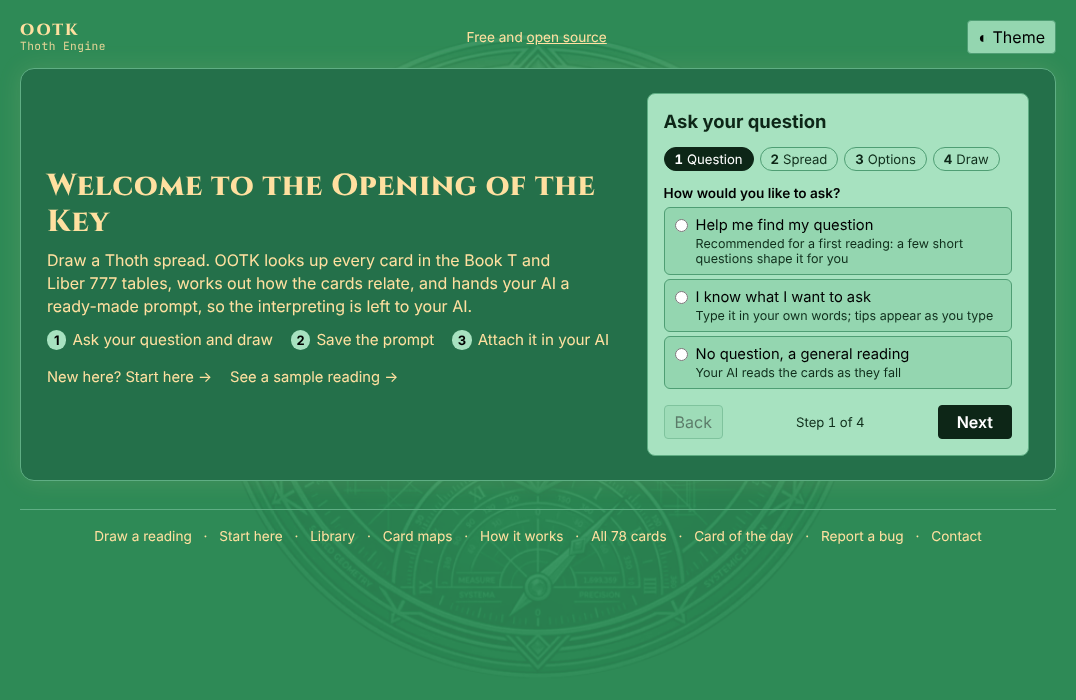
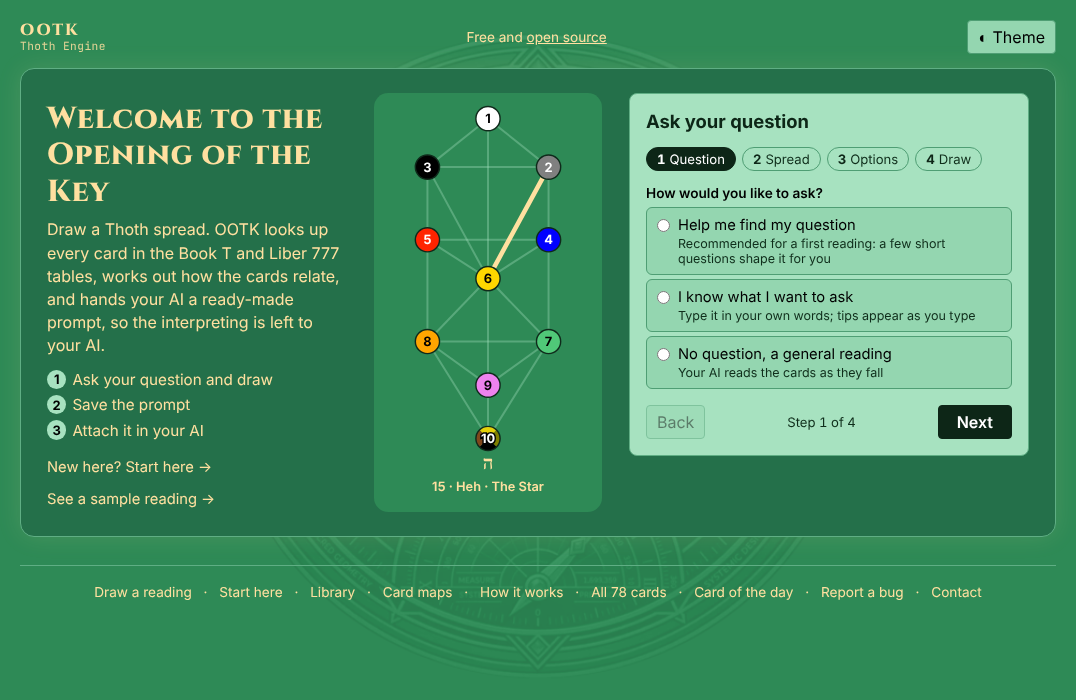
README: retake the screenshot and catch up with recent changes
Retakes docs/images/front.png at 1076x700 from a local run of main,
showing the new Tree of Life animation and the footer without
Testimonials. The project layout now lists book_t.py, gods.py,
make_tree_paths.py and the three AI check scripts, and the card of the
day saves its prompt as Markdown rather than copying it.

Claude-Session: https://claude.ai/code/session_017ncajHesTkbLv45WWGjYR7

diff --git a/README.md b/README.md
@@ -6,7 +6,7 @@
 
 **Try it online: [tarotthoth.com](https://tarotthoth.com)** (free hosting, so the first visit after a quiet spell takes about a minute to wake up). Card images there are Pamela Colman Smith's public-domain 1909 Rider-Waite-Smith art, because the Thoth paintings are copyrighted.
 
-![The start page: the headline "Welcome to the Opening of the Key", the three steps (ask your question and draw, save the prompt, attach it in your AI) and the "Ask your question" wizard on its first step, "How would you like to ask?"](docs/images/front.png)
+![The start page: the headline "Welcome to the Opening of the Key", the three steps (ask your question and draw, save the prompt, attach it in your AI), the Tree of Life animation lighting Path 15 (Heh, The Star) and the "Ask your question" wizard on its first step, "How would you like to ask?"](docs/images/front.png)
 
 It places the Hebrew letters and the Platonic solids in three-dimensional space with two models: the **Cube of Space** from the Sefer Yetzirah (three mother letters as axes, seven doubles as faces and centre, twelve simples as edges) and **polyhedral dual inversions** (each card's solid and its dual; the cube's dual octahedron has its six corners on the Cube of Space's six directions). The [Method page](https://tarotthoth.com/method#space) explains both and [/maps](https://tarotthoth.com/maps) draws them.
 
@@ -43,10 +43,12 @@ ootk-thoth-engine/
 │   ├── gematria.py         # Standard Hebrew letter values (Aleph 1 to Tav 400) and per-operation totals
 │   ├── report.py           # analyze_reading (the one pipeline the CLI and web share), the prompt and HTML export
 │   ├── db.py               # DB settings, card lookups, saving sessions
+│   ├── book_t.py           # Book T's Opening of the Key: piles, counting and pairing
 │   ├── shuffle.py          # Seeded shuffler (single source of truth)
 │   ├── rules.py            # Book T dignities, aspects and orbs (the one source of scoring rules)
 │   ├── birth_cards.py      # Birth and year cards (Greer and Arrien tarot numerology)
 │   ├── decans.py           # Shem ha-Mephorash angels and Sun dates of the 36 decans, day ruler
+│   ├── gods.py             # Liber 777 gods for the Trumps and I Ching hexagrams for the court cards
 │   ├── titles.py           # Book T titles of the cards (Lord of ..., Trump and court titles)
 │   ├── significator.py     # Book T significator: court card from description or birth date
 │   ├── sky.py              # Sun and Moon decans and their cards, local maths (/today and the prompt header)
@@ -62,6 +64,10 @@ ootk-thoth-engine/
 │   ├── download_images.py  # Fetch card images into static/images/
 │   ├── optimize_images.py  # Build the WebP copies the web GUI serves
 │   ├── make_site_images.py # Rebuild the favicon and link-preview image in static/site/
+│   ├── make_tree_paths.py  # Rebuild the front page's Tree of Life animation (static/site/tree-paths.svg)
+│   ├── ai_check.py         # AI answer check, step 1: build the test prompts and truth files
+│   ├── ai_score.py         # AI answer check, steps 2-3: collect and score AI answers
+│   ├── ai_parts.py         # Leave-one-out round: which prompt parts an AI actually uses
 │   ├── export_hf_space.sh  # Copy the files a Hugging Face Space needs into a folder
 │   └── view_output.py      # Render an HTML report in the terminal
 ├── database/
@@ -72,7 +78,7 @@ ootk-thoth-engine/
 ├── static/cards/           # WebP card images served by the web GUI
 ├── static/js/              # Page scripts, loaded with defer
 ├── static/fonts/           # Self-hosted Cinzel, Inter and JetBrains Mono (SIL Open Font License)
-├── static/site/            # Favicon, app icon and link-preview image
+├── static/site/            # Favicon, app icon, link-preview image and the Tree of Life animation
 ├── Dockerfile, render.yaml # Container image and Render Blueprint (see Docker, Render and Hugging Face Spaces)
 ├── deploy/huggingface/     # Space README and start script, also used by the Docker image
 ├── output/                 # Generated HTML reports (not in git)
@@ -239,7 +245,7 @@ Open http://localhost:8000 for the start page. The automatic API docs (`/docs`, 
 - **Time of reading.** The prompt header gives the date and time the cards were drawn, on your own clock (your browser's time zone) and in UTC, and where the Sun and Moon stood then (tropical zodiac, context only, not used in any score). A saved report keeps its original time; a share link carries the time (`drawn=20261029T2200Z`) but not your time zone. Older share links and the samples have no time line.
 - **Parts of the AI prompt.** Under More options, a folded list has two groups. The main parts (elemental dignities, astrology, Hebrew letters, Tree of Life, court card detail, Book T counts, geomantic figures, geometry with the Cube of Space and the wheel oppositions, Golden Dawn titles) are on; switch one off to see what your AI makes of the reading without it. The extra layers are off unless you add them, because each repeats another part, is the same in every reading, or made no difference when tested: Platonic solids, Cube of Space counts, every wheel aspect (squares, trines and sextiles with their weights, not only oppositions), each card's letter in the other systems, the statistics behind the lens and the Own-Place Check, gematria, angels of the decans, decan dates and day ruler, Liber 777 gods and court card hexagrams. With the defaults the full Opening of the Key prompt is about 48k characters (78k with every layer). The cards drawn stay the same, the prompt header names any main part left out, and the report, its share link (`with=solids&without=astrology`) and its terminal command (`--with`, `--without`) keep the choice. Golden Dawn titles, angels, decan dates and day ruler, gods and hexagrams are also left out automatically, gods first, then angels, dates, hexagrams and titles, when a reading's prompt would pass 77,500 characters, so the longest Opening of the Key stays readable by AIs that stop near 78,600 (Gemini); the prompt header then says "Left Out to Fit". `/method#correspondences` explains which parts the engine calculates with and which it only hands to the AI, and `/method#ranking` ranks them by what they add to a reading (astrology first, angels and decan dates last; birth cards a small effect), with how sure each rank is.
 - **Birth cards.** Under More options, an optional birth date gives your birth card and year card (tarot numerology as Mary Greer and Angeles Arrien teach it). The date stays in the browser: only the card numbers and the year are sent and saved, and share links leave them out. See `/method#birth-cards`.
-- **What now.** The report opens with three steps (cards drawn, save the prompt, attach it in your AI). **Save prompt as Markdown (.md)** downloads `attach_this_to_your_ai_seed<seed>.md` (or today's date in place of the seed for cards picked by hand), which you attach in the AI chat with its **+** button. A file gets round the limits AI chats put on pasted text. **Save as PDF (print)** and **Save as JSON** sit beside it. The report has no copy buttons; the card of the day (`/today`) keeps **Copy prompt** and **Copy and open**. The prompt asks the AI to restate your question as an open one framed by the spread's positions and the framework, show that first so you can correct it, and answer it in the closing summary. The question never changes the draw. It names its own last line (`END OF OOTK PROMPT (N positions)`) at the top and asks the AI to say so, rather than interpret, if that line never arrives.
+- **What now.** The report opens with three steps (cards drawn, save the prompt, attach it in your AI). **Save prompt as Markdown (.md)** downloads `attach_this_to_your_ai_seed<seed>.md` (or today's date in place of the seed for cards picked by hand), which you attach in the AI chat with its **+** button. A file gets round the limits AI chats put on pasted text. **Save as PDF (print)** and **Save as JSON** sit beside it. The card of the day (`/today`) saves its prompt the same way. The prompt asks the AI to restate your question as an open one framed by the spread's positions and the framework, show that first so you can correct it, and answer it in the closing summary. The question never changes the draw. It names its own last line (`END OF OOTK PROMPT (N positions)`) at the top and asks the AI to say so, rather than interpret, if that line never arrives.
 - **Summary first.** Then come a short summary, the elemental balance, dignity and aspect totals and the key cards. Each operation is a collapsed section that opens on click, with its drawing and its card, aspect and dignity tables.
 - **Drawings.** Operation 1 is drawn as the 15-card heap inside a triangle (its cards are compared by element only: side-by-side cards in a heap take no astrological aspect), houses and signs as 12-segment wheels (the houses with each house's meaning), and decans as a 36-segment ring, with card images. Switch between **Aspect lines** and **Element pairs**. Layout positions come from `SPREAD_DEFAULT_COORDINATES` in `spreads.py`, the same coordinates the aspects are measured on.
 - **How the cards are linked.** Each operation explains in plain words which cards are compared. Tap a card in a drawing to see its element pairs and aspects, each with its score and reason, in an inspector beside the drawing (below it on phones); tap a partner to jump to it.
